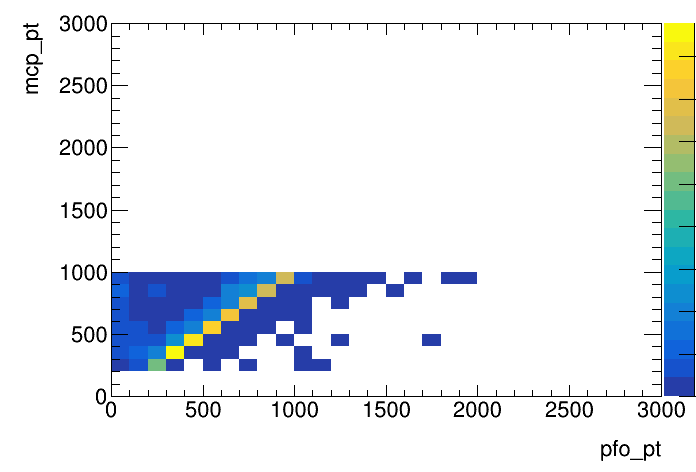
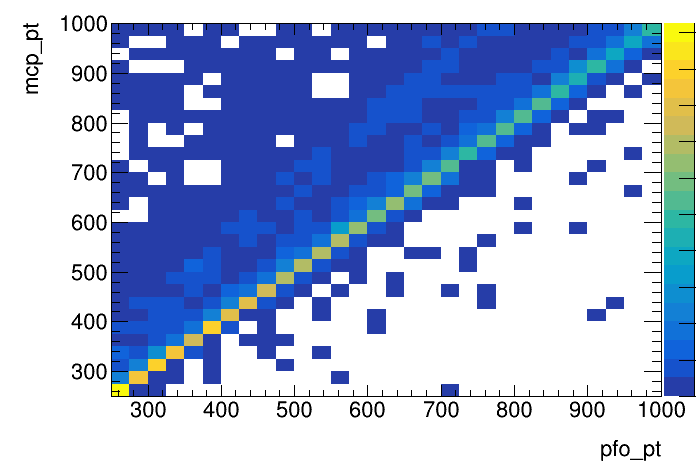
updated script to see clustering efficiency

diff --git a/electronStudies.py b/electronStudies.py
@@ -39,23 +39,47 @@ for s in samples:
 hists = {}
 for s in files:
     hists[s] = {}
-    for obj in ["pfo", "pfo_el", "mcp", "mcp_el", "mcp_el_match", "trk", "trk_el_match"]:
+    for obj in ["pfo", "pfo_el", "mcp", "mcp_el", "mcp_el_match", "trk", "trk_el_match", "clus", "clus_el_match"]:
         for vtype in ["obj", "evt"]:
             for var in variables[vtype]:
                 hists[s][obj+"_"+var] = ROOT.TH1F(s+"_"+obj+"_"+var, s, variables[vtype][var]["nbins"], variables[vtype][var]["xmin"], variables[vtype][var]["xmax"])
 
+# so plots print with correct ranges on x and y axis
+sliceRange = {
+        "0_50": (0,50),
+        "50_250": (50,250),
+        "250_1000": (250,1000),
+        "1000_5000": (1000,5000)
+}
+
+
 hists2d = {}
 for s in files:
     hists2d[s] = {}
+
+    # using sliceRange above
+    sliceName = s.split("electronGun_pT_")[-1]
+    ptMin, ptMax = sliceRange[sliceName]
+   
     hists2d[s]["trk_eta_v_trk_pt"] = ROOT.TH2F(f"trk_eta_v_trk_pt_{s}", f"trk_eta_v_trk_pt_{s}", 30,-3,3,30,0,3000)
     hists2d[s]["trk_eta_v_trk_phi"] = ROOT.TH2F(f"trk_eta_v_trk_phi_{s}", f"trk_eta_v_trk_phi_{s}", 30,-3,3,30,-3,3)
     hists2d[s]["trk_eta_v_trk_n"] = ROOT.TH2F(f"trk_eta_v_trk_n_{s}", f"trk_eta_v_trk_n_{s}", 30,-3,3,20,0,20)
     hists2d[s]["trk_eta_v_mcp_eta"] = ROOT.TH2F(f"trk_eta_v_mcp_eta_{s}", f"trk_eta_v_mcp_eta_{s}", 30,-3,3,30,-3,3)
     hists2d[s]["trk_eta_v_mcp_pt"] = ROOT.TH2F(f"trk_eta_v_mcp_pt_{s}", f"trk_eta_v_mcp_pt_{s}", 30,-3,3,30,0,3000)
     hists2d[s]["trk_eta_v_mcp_phi"] = ROOT.TH2F(f"trk_eta_v_mcp_phi_{s}", f"trk_eta_v_mcp_phi_{s}", 30,-3,3,30,-3,3)
-    hists2d[s]["trk_pt_v_mcp_pt"] = ROOT.TH2F(f"trk_pt_v_mcp_pt_{s}", f"trk_pt_v_mcp_pt_{s}", 30,0,3000,30,0,3000)
-    hists2d[s]["pfo_pt_v_mcp_pt"] = ROOT.TH2F(f"pfo_pt_v_mcp_pt_{s}", f"pfo_pt_v_mcp_pt_{s}", 30,0,3000,30,0,3000)
+    hists2d[s]["trk_pt_v_mcp_pt"] = ROOT.TH2F(f"trk_pt_v_mcp_pt_{s}", f"trk_pt_v_mcp_pt_{s}", 30,ptMin,ptMax,30,ptMin,ptMax)
+    hists2d[s]["pfo_pt_v_mcp_pt"] = ROOT.TH2F(f"pfo_pt_v_mcp_pt_{s}", f"pfo_pt_v_mcp_pt_{s}", 30,ptMin,ptMax,30,ptMin,ptMax)
     hists2d[s]["mcp_E_v_mcp_p"] = ROOT.TH2F(f"mcp_E_v_mcp_p_{s}", f"mcp_E_v_mcp_p_{s}", 30,0,1000,30,0,1000)
+
+    #hists2d[s]["trk_eta_v_trk_pt"] = ROOT.TH2F(f"trk_eta_v_trk_pt_{s}", f"trk_eta_v_trk_pt_{s}", 30,-3,3,30,0,3000)
+    #hists2d[s]["trk_eta_v_trk_phi"] = ROOT.TH2F(f"trk_eta_v_trk_phi_{s}", f"trk_eta_v_trk_phi_{s}", 30,-3,3,30,-3,3)
+    #hists2d[s]["trk_eta_v_trk_n"] = ROOT.TH2F(f"trk_eta_v_trk_n_{s}", f"trk_eta_v_trk_n_{s}", 30,-3,3,20,0,20)
+    #hists2d[s]["trk_eta_v_mcp_eta"] = ROOT.TH2F(f"trk_eta_v_mcp_eta_{s}", f"trk_eta_v_mcp_eta_{s}", 30,-3,3,30,-3,3)
+    #hists2d[s]["trk_eta_v_mcp_pt"] = ROOT.TH2F(f"trk_eta_v_mcp_pt_{s}", f"trk_eta_v_mcp_pt_{s}", 30,-3,3,30,0,3000)
+    #hists2d[s]["trk_eta_v_mcp_phi"] = ROOT.TH2F(f"trk_eta_v_mcp_phi_{s}", f"trk_eta_v_mcp_phi_{s}", 30,-3,3,30,-3,3)
+    #hists2d[s]["trk_pt_v_mcp_pt"] = ROOT.TH2F(f"trk_pt_v_mcp_pt_{s}", f"trk_pt_v_mcp_pt_{s}", 30,0,3000,30,0,3000)
+    #hists2d[s]["pfo_pt_v_mcp_pt"] = ROOT.TH2F(f"pfo_pt_v_mcp_pt_{s}", f"pfo_pt_v_mcp_pt_{s}", 30,0,3000,30,0,3000)
+    #hists2d[s]["mcp_E_v_mcp_p"] = ROOT.TH2F(f"mcp_E_v_mcp_p_{s}", f"mcp_E_v_mcp_p_{s}", 30,0,1000,30,0,1000)
 
 
 
@@ -67,7 +91,7 @@ def isMatched(tlv1, tlv2):
 
 # Create a reader object to use for the rest of the time
 reader = pyLCIO.IOIMPL.LCFactory.getInstance().createLCReader()
-reader.setReadCollectionNames(["MCParticle", "PandoraPFOs", "SiTracks_Refitted"])
+reader.setReadCollectionNames(["MCParticle", "PandoraPFOs", "SiTracks_Refitted","PandoraClusters"])
 
 # Loop over the different samples
 for s in files:
@@ -109,7 +133,7 @@ for s in files:
             mcps = event.getCollection("MCParticle")
             pfos = event.getCollection("PandoraPFOs")
             trks = event.getCollection("SiTracks_Refitted")
-
+            clusters = event.getCollection("PandoraClusters")
             ######## Loop over MCPs
 
             for mcp in mcps:
@@ -125,6 +149,7 @@ for s in files:
                 # Look at electrons only
                 if abs(mcp.getPDG()) == 11:
                     fillObjHists(hists[s], "mcp_el", mcp_tlv)
+                    hists[s]["mcp_el_eff_eta"].Fill(abs(mcp_tlv.Eta()))
                     my_mcp_el = mcp_tlv
                     n_mcp_el += 1
 
@@ -133,6 +158,25 @@ for s in files:
 
             hists[s]["mcp_n"].Fill(n_mcp)
             hists[s]["mcp_el_n"].Fill(n_mcp_el)
+
+
+            ######## Loop over clusters
+            for clus in clusters:
+                clus_pos = clus.getPosition()
+                clus_E = clus.getEnergy()
+                magnitude = math.sqrt(clus_pos[0]**2 + clus_pos[1]**2 + clus_pos[2]**2)
+                if magnitude == 0: continue
+                
+                px = clus_E * clus_pos[0] / magnitude
+                py = clus_E * clus_pos[1] / magnitude
+                pz = clus_E * clus_pos[2] / magnitude
+                clus_tlv = ROOT.TLorentzVector(px, py, pz, clus_E)
+                fillObjHists(hists[s], "clus", clus_tlv)      ## for all clustering plots
+                if isMatched(clus_tlv, my_mcp_el):   ## for matching clusters and mc electrons
+                    fillObjHists(hists[s], "clus_el_match", my_mcp_el)
+                    hists[s]["clus_el_match_eff_eta"].Fill(abs(my_mcp_el.Eta()))
+
+
 
             ######## Loop over PFOs
 

diff --git a/caloStudies.py b/caloStudies.py
@@ -23,11 +23,11 @@ append = "rose3"
 # Set up things for each object
 settings = {
         "fnames": {
-                    "ph": "/data/fmeloni/DataMuC_MuColl10_v0A/reco/photonGun*",
+                    "ph": "/data/fmeloni/DataMuC_MuColl10_v0A/v0/reco/photonGun*",
                     #"ph": "/data/fmeloni/DataMuC_MuColl10_v0A/reco_highrange/photonGun*",
                     #"ph": "/data/fmeloni/DataMuC_MuColl10_v0A/reco/photonGun*",
-                    "mu": "/data/fmeloni/DataMuC_MuColl10_v0A/reco/muonGun*",
-                    "el": "/data/fmeloni/DataMuC_MuColl10_v0A/reco/electronGun*"},
+                    "mu": "/data/fmeloni/DataMuC_MuColl10_v0A/v0/reco/muonGun*",
+                    "el": "/data/fmeloni/DataMuC_MuColl10_v0A/v0/reco/electronGun*"},
         "labelname": {  "ph": "Photon",
                         "mu": "Muon",
                         "el": "Electron"},

diff --git a/plotHelper.py b/plotHelper.py
@@ -7,6 +7,7 @@ variables = {"obj": {}, "evt": {}}
 variables["obj"]["pt"] =  {"nbins": 30, "xmin": 0,     "xmax": 3000,    "accessor": ".Perp()",  "label": "p_{T} [GeV]"}
 variables["obj"]["eta"] = {"nbins": 20, "xmin": -3,    "xmax": 3,       "accessor": ".Eta()",   "label": "#eta"}
 variables["obj"]["phi"] = {"nbins": 20, "xmin": -3.5,  "xmax": 3.5,     "accessor": ".Phi()",   "label": "#phi"}
+variables["obj"]["eff_eta"] = {"nbins": 6, "xmin": -3, "xmax": 3, "accessor": ".Eta()", "label": "#eta"}
 variables["evt"]["n"] =   {"nbins": 20, "xmin": 0,     "xmax": 20,      "accessor": "",         "label": "number per event"}
 
 colors =        [ROOT.TColor.GetColor("#FFA900"),   # Sunny Orange
